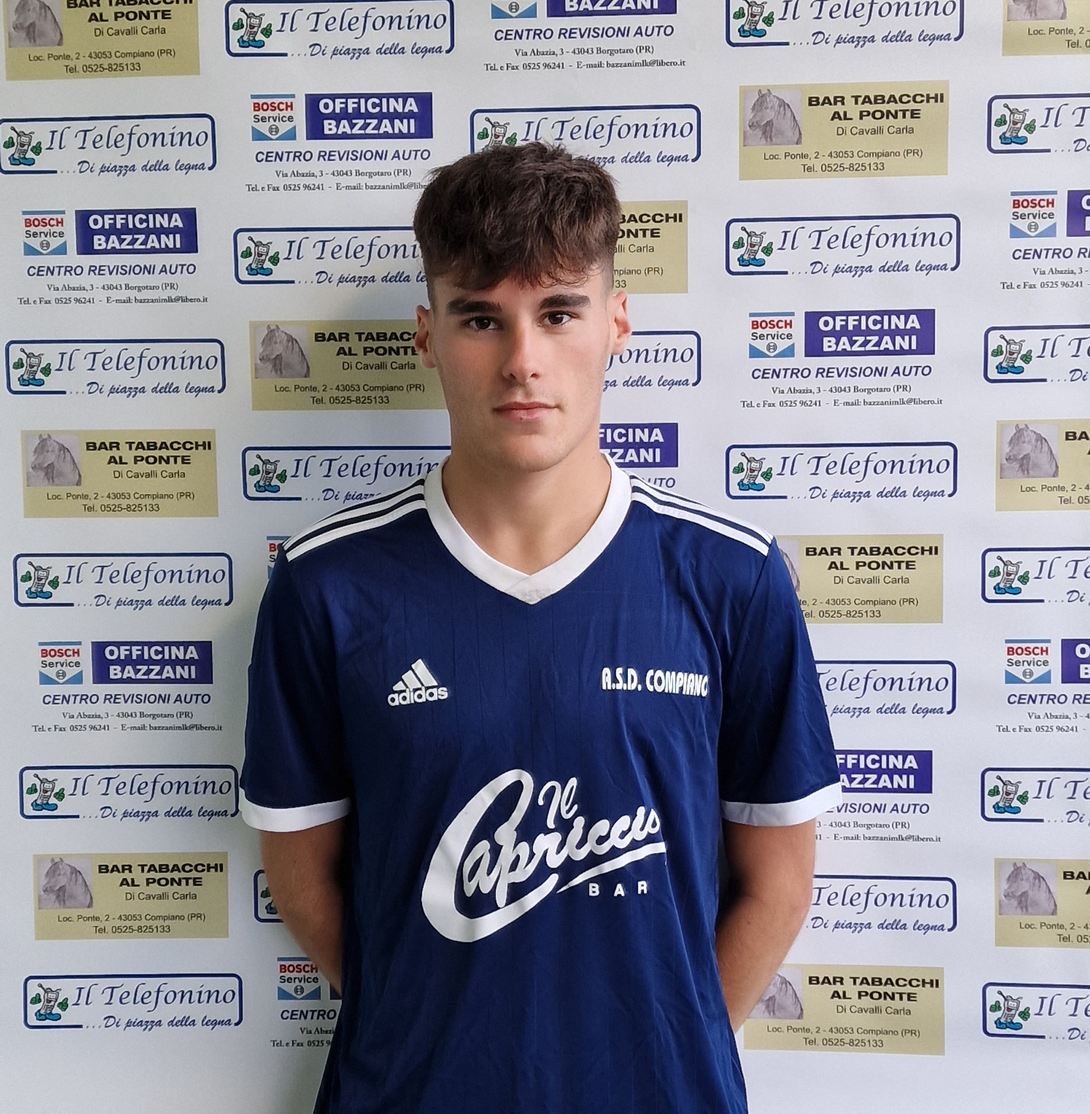
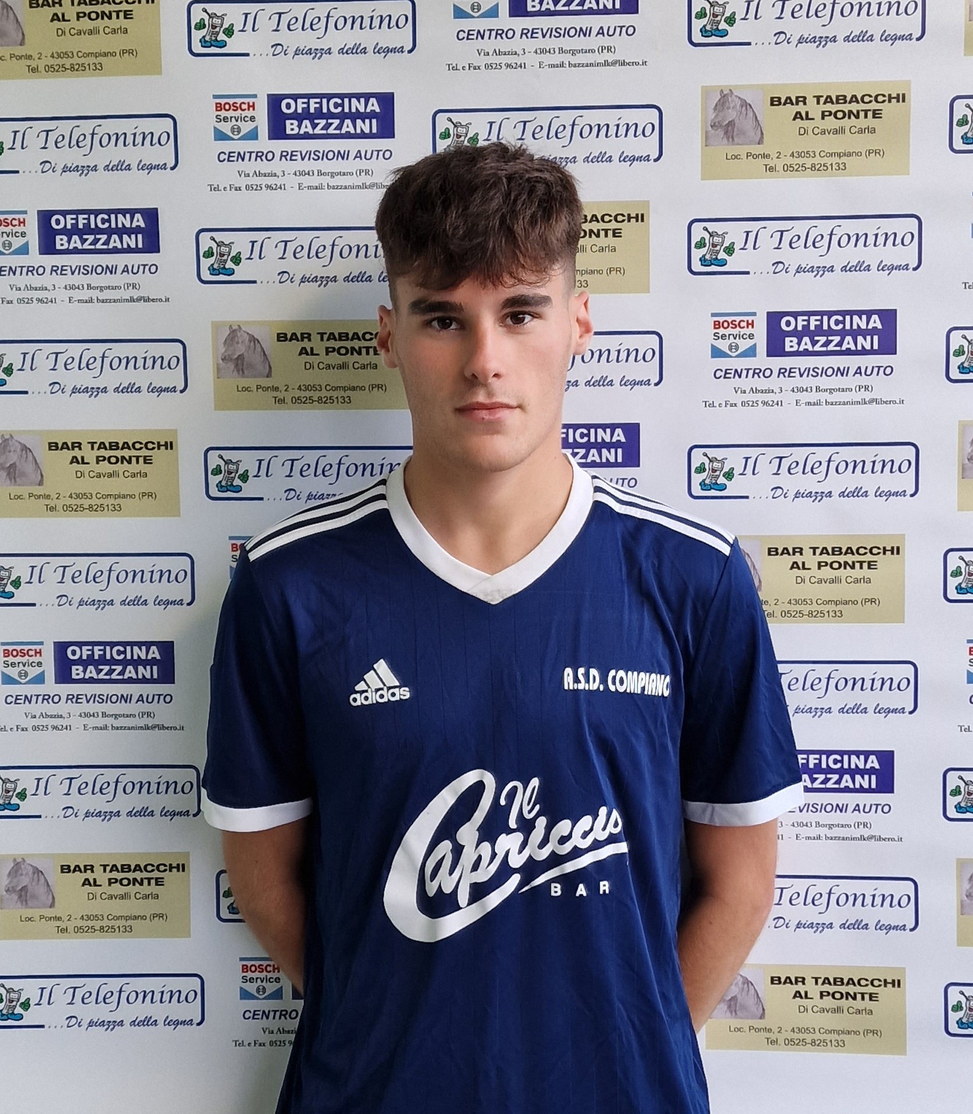
ASD Compiano

diff --git a/Rosa.html b/Rosa.html
@@ -7,34 +7,87 @@
 </head>
 <body>
 <h1>La Rosa 2023/24</h1>
-<h2>Portieri</h2>
-<h2>Difensori</h2>
-<table>
-    <tr>
-        <td><img src="miki.png"></td>
-        <td><img src="juli.png"></td>
-        <td><img src="berto.png"></td>
-        <td><img src="sirb.png"></td>
-    </tr>
-    <tr>
-        <td><a href="Lombardi.html">Michele Lombardi</a></td>
-        <td><a href="Lecchini.html">Julian Lecchini</a></td>
-        <td><a href="Bertorelli.html">Gianmaria Bertorelli</a></td>
-        <td><a href="Serpagli.html">Francesco Serpagli</a></td>
-    </tr>
-    <tr>
-        <td><img src="arcuri.png"></td>
-        <td><img src="piscio.png"></td>
-        <td><img src="berto.png"></td>
-        <td><img src="sirb.png"></td>
+<center>
+    <h2>Portieri</h2>
+    <h2>Difensori</h2>
+    <table>
+        <tr>
+            <td><img src="miki.png"></td>
+            <td><img src="juli.png"></td>
+            <td><img src="berto.png"></td>
+            <td><img src="sirb.png"></td>
+        </tr>
+        <tr>
+            <td><a href="Lombardi.html">Michele Lombardi</a></td>
+            <td><a href="Lecchini.html">Julian Lecchini</a></td>
+            <td><a href="Bertorelli.html">Gianmaria Bertorelli</a></td>
+            <td><a href="Serpagli.html">Francesco Serpagli</a></td>
+        </tr>
+        <tr>
+            <td><img src="arcuri.png"></td>
+            <td><img src="piscio.png"></td>
+            <td><img src="berto.png"></td>
+            <td><img src="sirb.png"></td>
 
-    </tr>
-    <tr>
-        <td><a href="Arcuri.html">Nicholas Arcuri</a></td>
-        <td><a href="Piscina.html">Matteo Piscina</a></td>
-        <td><a href="Berzolla.html">Tommaso Berzolla</a></td>
-        <td><a href="Vignali.html">Alex Vignali</a></td>
-    </tr>
-</table>
+        </tr>
+        <tr>
+            <td><a href="Arcuri.html">Nicholas Arcuri</a></td>
+            <td><a href="Piscina.html">Matteo Piscina</a></td>
+            <td><a href="Berzolla.html">Tommaso Berzolla</a></td>
+            <td><a href="Vignali.html">Alex Vignali</a></td>
+        </tr>
+    </table>
+    <h2>Centrocampisti</h2>
+    <table>
+        <tr>
+            <td><img src="ale.png"></td>
+            <td><img src="mauro.png"></td>
+            <td><img src="robi.png"></td>
+            <td><img src="sco.png"></td>
+        </tr>
+        <tr>
+            <td><a href="Terzaga.html">Alessio Terzaga</a></td>
+            <td><a href="Albarelli.html">Mauro Albarelli</a></td>
+            <td><a href="Zucconi.html">Robert Zucconi</a></td>
+            <td><a href="Scotton.html">Francesco Scotton</a></td>
+        </tr>
+        <tr>
+            <td><img src="cervi.png"></td>
+            <td><img src="vame.png"></td>
+            <td><img src="berto.png"></td>
+
+        </tr>
+        <tr>
+            <td><a href="Cervi.html">Andrea Cervi</a></td>
+            <td><a href="Vametti.html">Gabriele Vametti</a></td>
+            <td><a href="ArcuriN.html">Giuseppe Arcuri</a></td>
+        </tr>
+    </table>
+    <h2>Attaccanti</h2>
+    <table>
+        <tr>
+            <td><img src="delchiappo.png"></td>
+            <td><img src="yuri.png"></td>
+            <td><img src="manfro.png"></td>
+            <td><img src="sco.png"></td>
+        </tr>
+        <tr>
+            <td><a href="Terzaga.html">Tommaso Delchiappo</a></td>
+            <td><a href="Albarelli.html">Yuri Mocellin</a></td>
+            <td><a href="Zucconi.html">Christian Manfredi</a></td>
+            <td><a href="Scotton.html">Andrea Giacopazzi</a></td>
+        </tr>
+        <tr>
+            <td><img src="cervi.png"></td>
+            <td><img src="vame.png"></td>
+            <td><img src="berto.png"></td>
+
+        </tr>
+        <tr>
+            <td><a href="Cervi.html">Luca Calvano</a></td>
+            <td><a href="Vametti.html">Tommaso Tambini</a></td>
+        </tr>
+    </table>
+</center>
 </body>
 </html>

diff --git a/Rosa.css b/Rosa.css
@@ -20,8 +20,8 @@ h2 {
 }
 
 table {
-    margin-left: 70px;
     margin-top: -50px;
+
 }
 
 img {
@@ -29,6 +29,7 @@ img {
     border-color: darkgreen;
     width: 250px;
     height: 310px;
+
 }
 
 td {

diff --git a/Albarelli.html b/Albarelli.html
@@ -1,0 +1,10 @@
+<!DOCTYPE html>
+<html lang="en">
+<head>
+    <meta charset="UTF-8">
+    <title>PROFILO</title>
+</head>
+<body>
+
+</body>
+</html>

diff --git a/ArcuriN.html b/ArcuriN.html
@@ -1,0 +1,10 @@
+<!DOCTYPE html>
+<html lang="en">
+<head>
+    <meta charset="UTF-8">
+    <title>PROFILO</title>
+</head>
+<body>
+
+</body>
+</html>

diff --git a/Cervi.html b/Cervi.html
@@ -1,0 +1,10 @@
+<!DOCTYPE html>
+<html lang="en">
+<head>
+    <meta charset="UTF-8">
+    <title>PROFILO</title>
+</head>
+<body>
+
+</body>
+</html>

diff --git a/Scotton.html b/Scotton.html
@@ -1,0 +1,10 @@
+<!DOCTYPE html>
+<html lang="en">
+<head>
+    <meta charset="UTF-8">
+    <title>PROFILO</title>
+</head>
+<body>
+
+</body>
+</html>

diff --git a/Terzaga.html b/Terzaga.html
@@ -1,0 +1,10 @@
+<!DOCTYPE html>
+<html lang="en">
+<head>
+    <meta charset="UTF-8">
+    <title>PROFILO</title>
+</head>
+<body>
+
+</body>
+</html>

diff --git a/Vametti.html b/Vametti.html
@@ -1,0 +1,10 @@
+<!DOCTYPE html>
+<html lang="en">
+<head>
+    <meta charset="UTF-8">
+    <title>PROFILO</title>
+</head>
+<body>
+
+</body>
+</html>

diff --git a/Zucconi.html b/Zucconi.html
@@ -1,0 +1,10 @@
+<!DOCTYPE html>
+<html lang="en">
+<head>
+    <meta charset="UTF-8">
+    <title>PROFILO</title>
+</head>
+<body>
+
+</body>
+</html>
